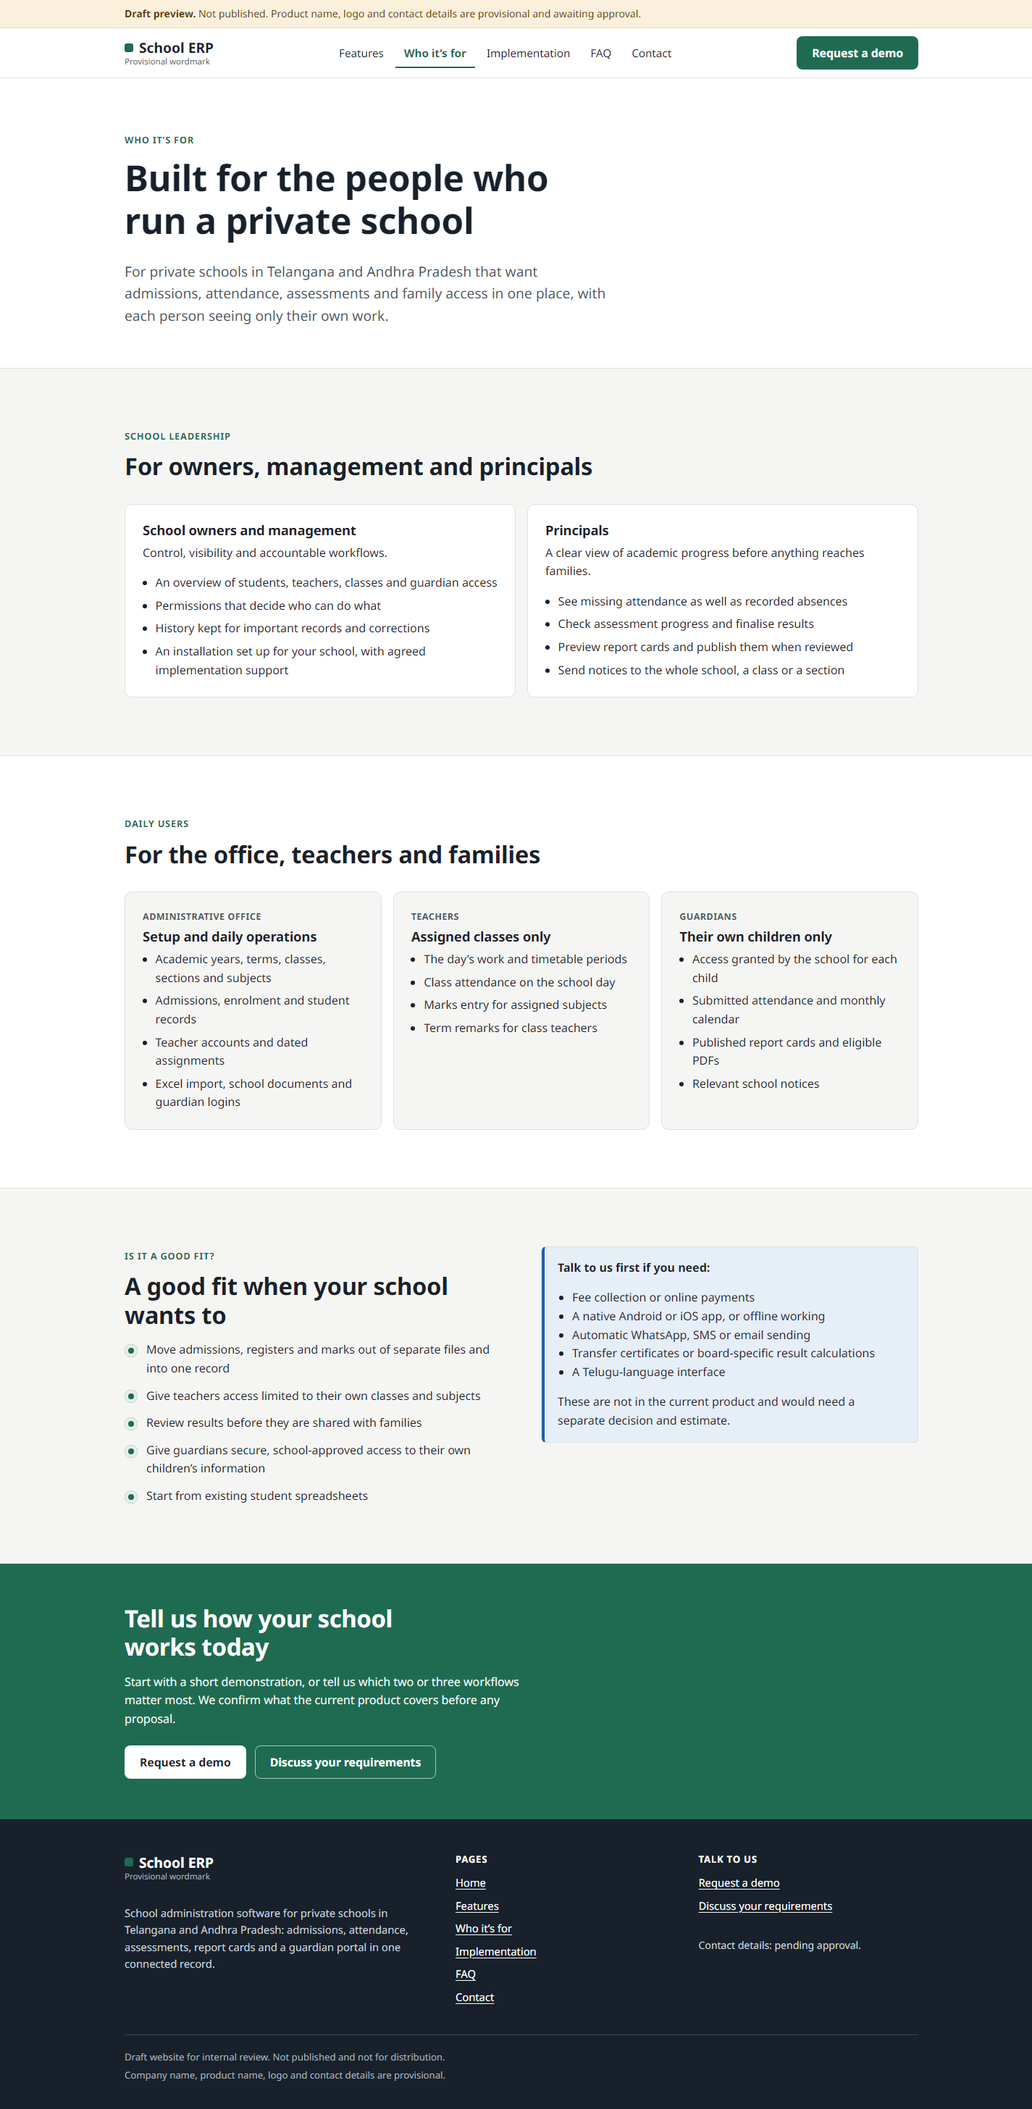
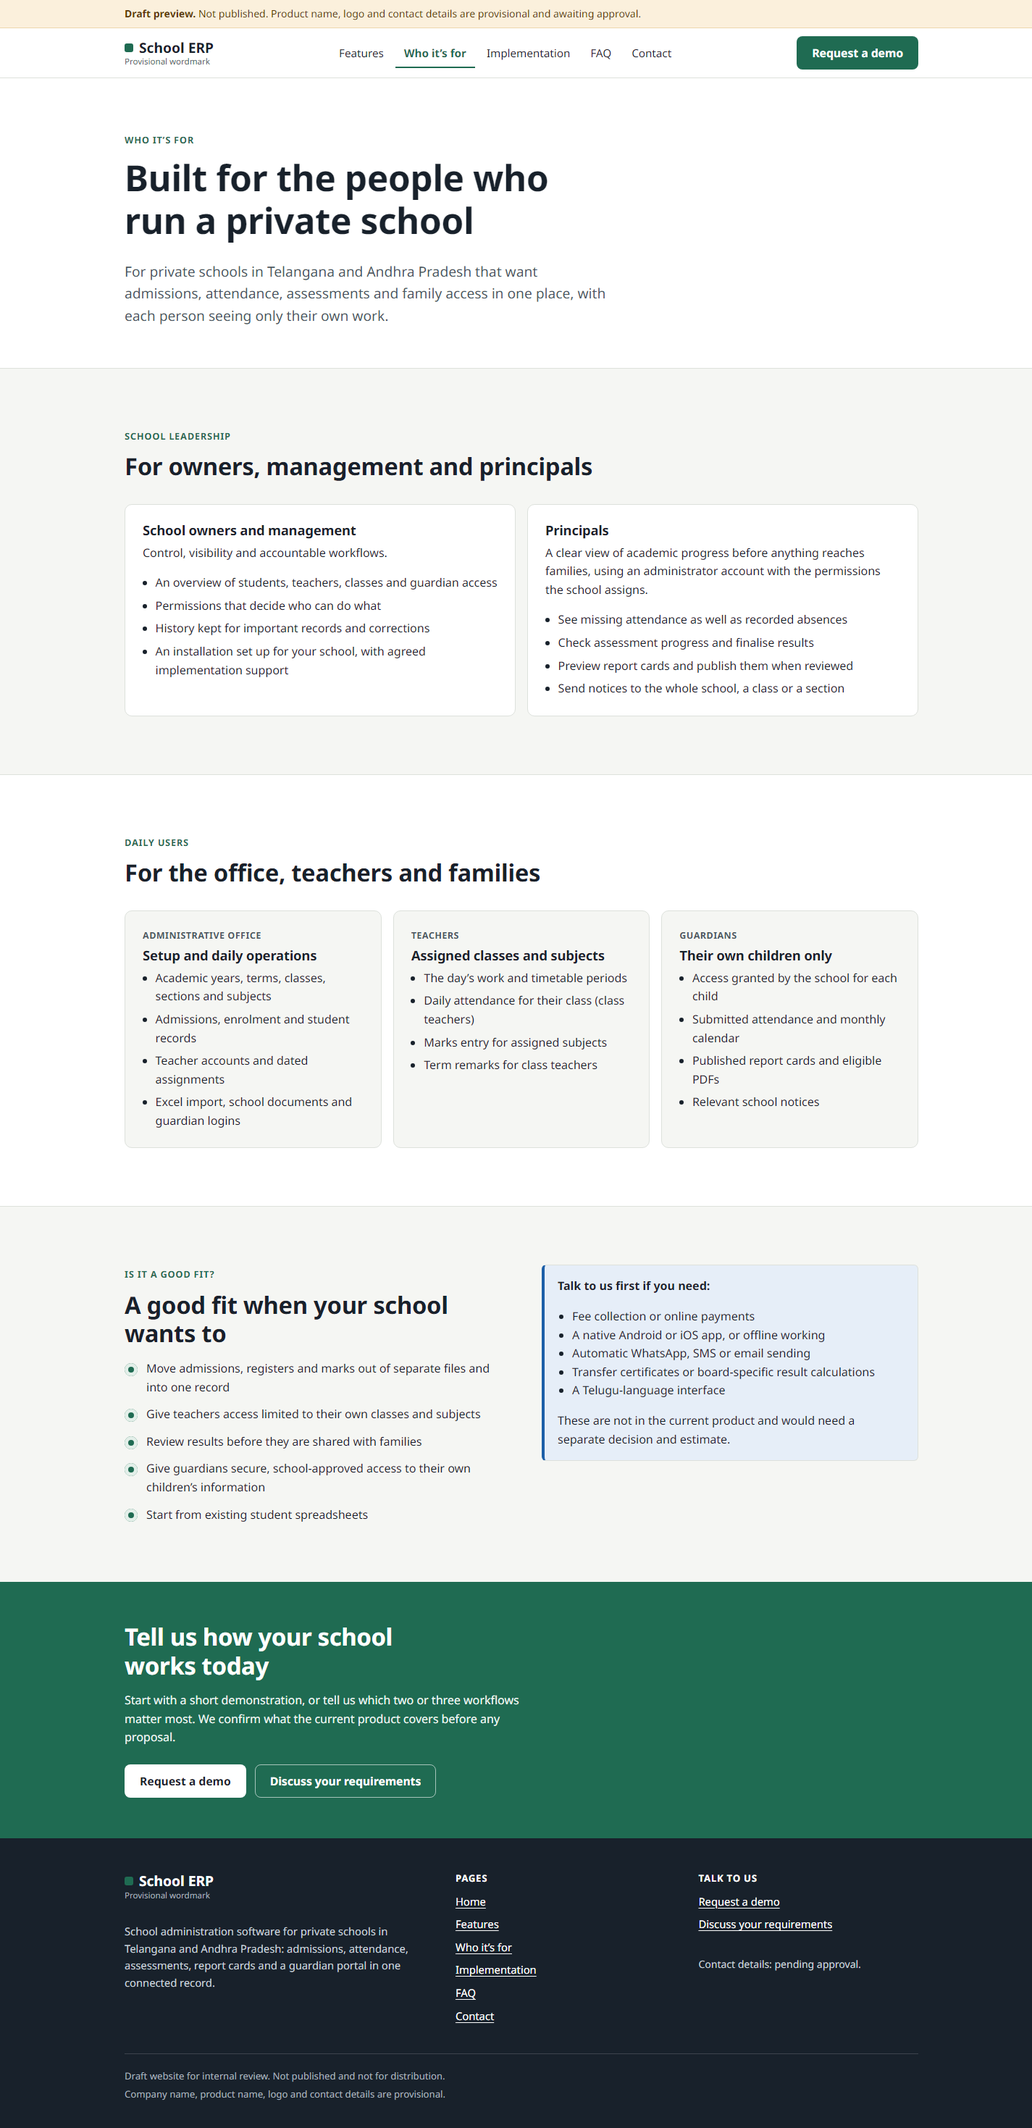
GTM-WEBSITE-02: refine marketing website and prepare launch checklist
Targeted refinements to the GTM-WEBSITE-01 draft; no redesign.

- Desktop navigation from 960 px (was 1040), so 1024 px laptops get it
- Lone last card in odd-numbered two-column rows spans the full row
- Diagrams shown from 900 px (was 760); text steps below that
- Contact journeys stack until 900 px; footer two-column on tablets
- Publication stages graphic captioned as an illustration
- Eight copy corrections after comparison with the feature catalogue,
  deck and sales FAQ (class-teacher attendance, principal access,
  features intro, implementation caption, demo wording)
- 'Approved diagrams' wording replaced with 'existing draft diagram assets'
- New website/PUBLICATION-READINESS.md (13 gates, all Pending or Draft
  evidence, plus the controlled launch process) and website/COPY-REVIEW.md
- Screenshots refreshed; 768 and 1024 px captures added for Home and
  Features; README and content-status updated; Astro stays 7.3.8

diff --git a/website/src/styles/global.css b/website/src/styles/global.css
@@ -348,7 +348,7 @@ ol {
   display: none;
 }
 
-@media (min-width: 1040px) {
+@media (min-width: 960px) {
   .nav-desktop {
     display: block;
   }
@@ -617,6 +617,36 @@ ol {
   }
 }
 
+/* A lone last card in a two-column row spans the full row instead of
+   leaving an empty slot (odd-numbered card sets). */
+@media (min-width: 720px) {
+  .grid-2 > :last-child:nth-child(odd) {
+    grid-column: 1 / -1;
+  }
+}
+
+@media (min-width: 720px) and (max-width: 999px) {
+  .grid-3 > :last-child:nth-child(odd) {
+    grid-column: 1 / -1;
+  }
+}
+
+/* Enquiry journeys need more width than standard cards before pairing. */
+@media (min-width: 720px) and (max-width: 899px) {
+  .grid-2.journeys {
+    grid-template-columns: 1fr;
+  }
+}
+
+.grid-2 > .card:last-child:nth-child(odd) ul {
+  columns: 2 280px;
+  column-gap: 32px;
+}
+
+.grid-2 > .card:last-child:nth-child(odd) li {
+  break-inside: avoid;
+}
+
 .card {
   background: var(--surface);
   border: 1px solid var(--rule);
@@ -807,6 +837,16 @@ ol {
   }
 }
 
+.publish-figure {
+  margin: 0;
+}
+
+.publish-figure figcaption {
+  margin-top: 10px;
+  font-size: 0.82rem;
+  color: #c9d1da;
+}
+
 .publish-flow {
   list-style: none;
   margin: 0;
@@ -981,7 +1021,7 @@ tbody th {
   color: var(--brand-strong);
 }
 
-/* Diagram figures: approved SVGs on wider screens, text steps on phones */
+/* Diagram figures: existing draft diagram assets (diagrams/svg) on wide screens, text steps below 900px */
 .diagram {
   margin: 0;
 }
@@ -1006,7 +1046,7 @@ tbody th {
   margin-top: 12px;
 }
 
-@media (min-width: 760px) {
+@media (min-width: 900px) {
   .diagram-figure {
     display: block;
   }
@@ -1167,7 +1207,17 @@ tbody th {
   gap: 32px;
 }
 
-@media (min-width: 800px) {
+@media (min-width: 600px) and (max-width: 899px) {
+  .footer-grid {
+    grid-template-columns: 1fr 1fr;
+  }
+
+  .footer-grid > :first-child {
+    grid-column: 1 / -1;
+  }
+}
+
+@media (min-width: 900px) {
   .footer-grid {
     grid-template-columns: 1.4fr 1fr 1fr;
   }

diff --git a/website/PUBLICATION-READINESS.md b/website/PUBLICATION-READINESS.md
@@ -1,0 +1,73 @@
+# Marketing website — publication readiness
+
+Status: **Draft. Not approved for publication.** Prepared in GTM-WEBSITE-02 on 2026-11-10 against `main` at `dab51eb`.
+
+The website in `website/` stays unpublished until **every gate below is approved by its owner** and Gate 13 (launch authorisation) is recorded. Nothing in this file authorises deployment, domain registration, indexing or enquiry collection.
+
+## How to use this checklist
+
+- Each gate has an owner, the evidence needed, and a status.
+- Statuses: **Pending** (no decision yet), **Draft evidence** (work exists but is not approved), **Approved** (owner has approved, with date and evidence link). Only the owner may set **Approved**.
+- When a gate is approved, record the date, the approver's role and a link to the evidence (PR, document or message reference) in the "Decision record" column. Do not record personal contact details in this file.
+- If a later change affects an approved gate (for example a copy change after copy approval), set it back to **Pending**.
+
+Roles used below: **Owner** (business owner and final decision-maker), **Web lead** (whoever maintains `website/`), **Legal adviser** (the business's legal or compliance adviser), **Product lead** (whoever verifies claims against the `school-erp` application).
+
+## Approval gates
+
+| # | Gate | Owner | Evidence required | Status | Decision record |
+|---|---|---|---|---|---|
+| 1 | Final company and product names | Owner | Written decision on company name, product name and how the product is referred to in copy; name-availability check if wanted | Pending | |
+| 2 | Logo and identity assets | Owner | Approved logo files imported into `brand/logos/`, logo rules added to `brand/brand-guidelines.md`, favicon and social image derived from them; provisional wordmark replaced | Pending | |
+| 3 | Website copy approval | Owner, with Product lead | Copy-review log (`website/COPY-REVIEW.md`) resolved; every claim re-checked against the current feature catalogue and a deployed build; owner sign-off per page | Draft evidence | |
+| 4 | Contact email, telephone/WhatsApp and address | Owner | Approved, monitored business contact channels; decision on whether a postal address is shown; "Areas served" confirmed | Pending | |
+| 5 | Domain selection and ownership | Owner | Chosen domain registered in the business's own account (not a personal or vendor account); registrar access, renewal owner and DNS ownership documented | Pending | |
+| 6 | Hosting and deployment architecture | Owner, with Web lead | Written choice of static host, account holder, how deployments are triggered (manual or from `main`), rollback method, TLS, security headers and cost owner | Pending | |
+| 7 | Privacy notice and legal review | Legal adviser, then Owner | Privacy notice covering any personal data the site collects (none today), cookies, hosting-provider logs and contact handling; legal review of all public claims, including the DPDP wording | Pending | |
+| 8 | Enquiry workflow decision | Owner | Decision between (a) contact details only, as now, or (b) an enquiry form; for (b): fields, consent text, processor, storage location, retention, spam protection and who answers enquiries; Gate 7 updated to match | Pending | |
+| 9 | Analytics and cookie decisions | Owner, with Legal adviser | Decision to use no analytics (as now) or a named tool; if a tool is chosen: cookies set, consent mechanism, data location and privacy-notice update | Pending | |
+| 10 | Search indexing and SEO configuration | Web lead, then Owner | Approved domain set as Astro `site`; canonical URLs, Open Graph/social image and `sitemap.xml`; final titles and descriptions reviewed; launch plan below agreed | Pending | |
+| 11 | Final accessibility and cross-browser checks | Web lead | Keyboard, screen-reader spot check, contrast and 200% zoom on the final build; latest Chrome, Edge, Firefox and Safari (desktop), Chrome on Android and Safari on iOS; results recorded | Draft evidence | |
+| 12 | Performance and security checks | Web lead | Lighthouse (or equivalent) on a deployed preview URL; security headers (HSTS, CSP, X-Content-Type-Options, Referrer-Policy) confirmed; `npm audit` clean; no secrets or personal data in the repository or build | Draft evidence | |
+| 13 | Owner authorisation for public launch | Owner | Written go-live authorisation naming the build (commit SHA) and date, given after Gates 1–12 are Approved | Pending | |
+
+Related item outside the website itself:
+
+| # | Item | Owner | Evidence required | Status |
+|---|---|---|---|---|
+| R1 | Demonstration environment | Owner, with Product lead | A rehearsed demo environment with fictional data and authorised logins, so a "Request a demo" enquiry can be fulfilled (see `demo/demo-checklists/pre-demo-readiness.md`) | Pending |
+
+### Draft evidence already available
+
+- **Gate 3:** GTM-WEBSITE-02 copy review in `website/COPY-REVIEW.md`; copy checked against `docs/product/feature-catalogue.md`, the client deck and the sales FAQ, not yet against a deployed build.
+- **Gate 11:** local preview checked at 390, 768, 1024 and 1440 px in Chromium: no horizontal overflow, keyboard navigation through the skip link and menu, visible focus, all text contrast ≥ 5.8:1. Other browsers and screen readers not yet tested.
+- **Gate 12:** `npm audit` reports 0 vulnerabilities for Astro 7.3.8; the build makes no external requests and loads no third-party scripts, fonts or images; about 153 KiB in total. No deployed URL exists, so headers and Lighthouse are untested.
+
+## Controlled process for going public (do not perform yet)
+
+These protections are deliberately in place now. Remove them **only** after Gate 13 is recorded, in one dedicated pull request titled `GTM-WEBSITE-<NN>: enable public indexing`, reviewed before merge.
+
+| Protection | Where | Change at launch |
+|---|---|---|
+| `noindex, nofollow` robots meta | `src/layouts/BaseLayout.astro` | Remove the tag (or set `index, follow`) |
+| Robots block | `public/robots.txt` | Replace `Disallow: /` with an allow rule and a `Sitemap:` line for the approved domain |
+| Draft banner | `src/layouts/BaseLayout.astro` (`.draft-notice`) | Remove |
+| Draft footer lines | `src/components/SiteFooter.astro` (`.footer-base`) | Replace with the approved company line and privacy-notice link |
+| "Provisional wordmark" label | `src/data/site.ts` (`wordmarkNote`), header and footer | Replace with the approved logo per Gate 2 |
+| Pending contact placeholders | `src/pages/contact.astro`, footer | Replace with approved channels per Gate 4 |
+| Draft-state site checks | `scripts/check-site.mjs` | Update the noindex, robots, canonical/Open Graph and contact-link rules to the approved launch rules in the same PR, so CI keeps guarding the published state |
+
+Steps for that pull request:
+
+1. Confirm Gates 1–12 show **Approved** with decision records, and Gate 13 names the commit to publish.
+2. Make only the changes in the table above, plus the approved identity, contact and SEO values.
+3. Run `npm ci`, `npm run check` and the full CI workflow; attach screenshots of every page at 390 px and 1440 px.
+4. Deploy to a non-indexed preview URL first and repeat Gates 11 and 12 there.
+5. Merge only on the owner's written instruction, then deploy production from the merged commit.
+6. Record the published commit and date in `docs/content-status.md`; the owner sets the status to **Published**.
+
+Rollback: redeploy the previous commit, or restore `noindex` and `Disallow: /` and redeploy, if anything published proves wrong.
+
+## Deliberately absent today
+
+No forms, analytics, cookies, third-party requests, contact channels, domain, hosting, canonical or social tags, and no claims about pricing, service levels, licensing or unsupported features.

diff --git a/website/COPY-REVIEW.md b/website/COPY-REVIEW.md
@@ -1,0 +1,46 @@
+# Marketing website — copy review log
+
+Status: **Draft.** GTM-WEBSITE-02, 2026-11-10. Supports Gate 3 in [`PUBLICATION-READINESS.md`](PUBLICATION-READINESS.md). Does not approve any copy.
+
+## Sources compared
+
+- `docs/product/feature-catalogue.md` (areas M01–M12 and "Current boundaries and future requests")
+- `presentations/marp/school-erp-client-deck.md`
+- `sales/faq/sales-faq.md` (internal; only public-safe answers reused)
+- `brand/brand-guidelines.md` (tone and claims rules)
+
+Every page (`/`, `/features/`, `/who-its-for/`, `/implementation/`, `/faq/`, `/contact/`) and the shared header, footer and call-to-action band were read in full. The comparison is against documents only; **no deployed build was checked** (required before Gate 3 can be approved).
+
+## Corrections made in this PR
+
+| Page | Before | After | Reason |
+|---|---|---|---|
+| Home (hero illustration) | Teacher "Takes attendance and enters marks for assigned classes" | "Records class attendance and enters marks for assigned subjects" | Attendance is captured by the class teacher for their class (M05 04); marks follow subject assignments (M06 02) |
+| Home (Teacher card) | "Take attendance and submit a complete class register" | "As class teacher, take attendance and submit the complete register" | Same: not every teacher takes attendance |
+| Home (publication band) | Stage chips "Draft / Finalised / Preview" looked like product status labels | Chips read "Not visible" until "Visible to guardian", with the caption "Illustration of the stages, not a product screenshot" | Avoid implying exact application labels; the point is guardian visibility (M06 08) |
+| Who it's for (Teachers) | "Assigned classes only"; "Class attendance on the school day" | "Assigned classes and subjects"; "Daily attendance for their class (class teachers)" | Subject teachers enter marks; attendance is class-teacher work |
+| Who it's for (Principals) | Implied a separate principal role | Adds "using an administrator account with the permissions the school assigns" | The product has administrator, teacher and guardian boundaries (M12 01); no separate principal role is documented |
+| Features (intro) | "Everything below is in the current product" | "The twelve areas below are in the current product… Requests that are not included are listed at the end of the page" | The same page also lists excluded requests, so "everything below" was ambiguous |
+| Implementation (diagram caption) | "Each stage is confirmed with the school before the next begins" | "Six stages, from the first requirements conversation to launch and support" | A process commitment not stated in the diagram or sales materials |
+| Contact (Request a demo) | "using fictional school data" | "using a demonstration school with fictional data" | Clearer; the live demo environment itself is still readiness item R1 |
+
+## Checked and unchanged
+
+- Boundaries: fee collection and payments, native apps, offline working, automatic WhatsApp/SMS/email, bulk rollover, transfer certificates, multi-school SaaS, ranks/GPA/board rules and extra modules appear only as **not included** (Features table, Who it's for callout, FAQ). Matches the catalogue's boundaries table.
+- WhatsApp Assist is described as preparing messages that staff send; consent rechecks match M09 04–M09 10.
+- The PWA is described as installable on supported devices and online-only, with no offline mode, background sync or push (M12 11).
+- Telugu: only PDF fonts are claimed; the interface is stated to be English (catalogue interpretation notes).
+- Feature cards M01–M12 each restate catalogue items; no new capability was added.
+- Commercial wording describes the model only (setup fee, annual support, hosting separate, additional development quoted). No prices, discounts, SLAs, support hours, licensing or ownership terms appear.
+- DPDP: the FAQ states that no compliance claim is made and that each school should take its own advice, consistent with the sales FAQ.
+
+## Open items for the owner (not changed)
+
+| Item | Where | Question |
+|---|---|---|
+| "Areas served: Telangana and Andhra Pradesh" | Contact | Confirm this is the public service area (Gate 4) |
+| "A short executive version or a longer, detailed session" | Contact | Both demo scripts are Draft and not yet rehearsed on a live environment (R1); keep or remove? |
+| "Hosting is shown separately" and the hosting FAQ | Implementation, FAQ | Taken from the internal sales FAQ; confirm it is acceptable publicly |
+| "Our implementation team" responsibilities | Implementation | Confirm the team description and the training offer before publication |
+| Product name "School ERP" | Everywhere | Provisional until Gate 1 |
+| Same-day absence alerts as a WhatsApp Assist example | Home, FAQ | Catalogue item M09 06; re-verify on the deployed build |

diff --git a/docs/content-status.md b/docs/content-status.md
@@ -30,6 +30,8 @@ Statuses: **Not yet imported** → **Draft** → **Approved** → **Published**.
 | Sales FAQ | `sales/faq/sales-faq.md` | Draft | | 2026-11-10 | GTM-SALES-01, internal review only: management questions and product boundaries; verify against deployed build |
 | Objection handling | `sales/objection-handling/common-objections.md` | Draft | | 2026-11-10 | GTM-SALES-01, internal review only: eight core objections plus quick answers; no unagreed terms |
 | CI quality gates | `.github/workflows/quality-checks.yml`, `scripts/ci/`, `docs/CI.md` | Draft | | 2026-11-10 | GTM-CI-01: documentation strict build, nav and exclusion checks; Marp 4.5.1 validation and render smoke test; GTM-DEMO-AUTO-01 adds an offline demo-automation job; validation only, no deployment |
-| Marketing website | `website/` | Draft | | 2026-11-10 | GTM-WEBSITE-01: six-page static Astro 7.3.8 site; copy from feature catalogue, client deck and sales FAQ; provisional text wordmark; contact details pending; `noindex` + `robots.txt` block; no forms or tracking; local preview only, not deployed |
-| Marketing website QA screenshots | `website/screenshots/marketing-site/` | Draft | | 2026-11-10 | GTM-WEBSITE-01: 390 px and 1440 px captures of the local draft site plus open phone menu; no school data; not application screenshots |
+| Marketing website | `website/` | Draft | | 2026-11-10 | GTM-WEBSITE-01: six-page static Astro 7.3.8 site; provisional wordmark; contact details pending; `noindex` + `robots.txt` block; no forms or tracking; local preview only, not deployed. GTM-WEBSITE-02: responsive refinements (nav from 960 px, odd card rows, diagrams from 900 px, contact and footer tablet layout) and eight copy corrections |
+| Marketing website QA screenshots | `website/screenshots/marketing-site/` | Draft | | 2026-11-10 | Refreshed in GTM-WEBSITE-02: every page at 390 and 1440 px, Home and Features at 768 and 1024 px, open phone menu; local draft only; no school data; not application screenshots |
+| Website publication-readiness checklist | `website/PUBLICATION-READINESS.md` | Draft | | 2026-11-10 | GTM-WEBSITE-02: 13 approval gates with owner, evidence and status (all Pending or Draft evidence) and the controlled launch process; authorises nothing |
+| Website copy review log | `website/COPY-REVIEW.md` | Draft | | 2026-11-10 | GTM-WEBSITE-02: comparison with feature catalogue, deck and sales FAQ; corrections and open owner questions; deployed-build check still required |
 | Playwright demo automation foundation | `demo/playwright/` | Draft | | 2026-11-10 | GTM-DEMO-AUTO-01: read-only Admin/Teacher/Guardian scenes and 8/30-minute sequences; routes verified in `school-erp` source (`main` c6284df) only; 11 scenes implemented, 7 provisional, 7 unavailable; no live or staging run yet; screenshots off and never for staging |

diff --git a/website/README.md b/website/README.md
@@ -52,12 +52,19 @@ The same check runs in CI (`.github/workflows/quality-checks.yml`, job "Marketin
 - Graphite & Institutional Green tokens from `brand/brand-guidelines.md`; cobalt is used only for the information callout
 - Noto Sans 400/700 (Latin subset) self-hosted through `@fontsource/noto-sans`; system fallbacks
 - Provisional text wordmark labelled "Provisional wordmark"; no logo is invented
-- Visuals are CSS explanations or the approved SVGs in `diagrams/svg/` (imported directly so there is one source). Diagrams show from 760 px wide; phones get the same steps as text
+- Visuals are CSS explanations or the existing draft diagram assets in `diagrams/svg/` (imported directly so there is one source; their content-register status is Draft). Diagrams show from 900 px wide; narrower screens get the same steps as text, and each diagram has full alt text
+- Desktop navigation shows from 960 px; below that the `<details>` menu is used
+- Odd-numbered card sets: a lone last card spans the full row instead of leaving an empty slot
 - No application screenshots are used. The documentation-portal screenshots in `screenshots/docs-portal/` are not used on the site
 
 ## Screenshots
 
-`screenshots/marketing-site/` holds QA captures of this draft site only (390 px and 1440 px for each page, plus the open phone menu). They contain no school data.
+`screenshots/marketing-site/` holds current QA captures of this draft site only: every page at 390 px and 1440 px, Home and Features also at 768 px and 1024 px, and the open phone menu. They contain no school data and are not application screenshots. Refreshed in GTM-WEBSITE-02.
+
+## Publication readiness and copy review
+
+- [`PUBLICATION-READINESS.md`](PUBLICATION-READINESS.md) — the 13 approval gates (owner, evidence, status) and the controlled process for removing `noindex`, the robots block and draft notices. All gates are Pending or Draft evidence.
+- [`COPY-REVIEW.md`](COPY-REVIEW.md) — page-by-page comparison with the feature catalogue, deck and sales FAQ; corrections made and open questions for the owner.
 
 ## Pending decisions before publication
 
